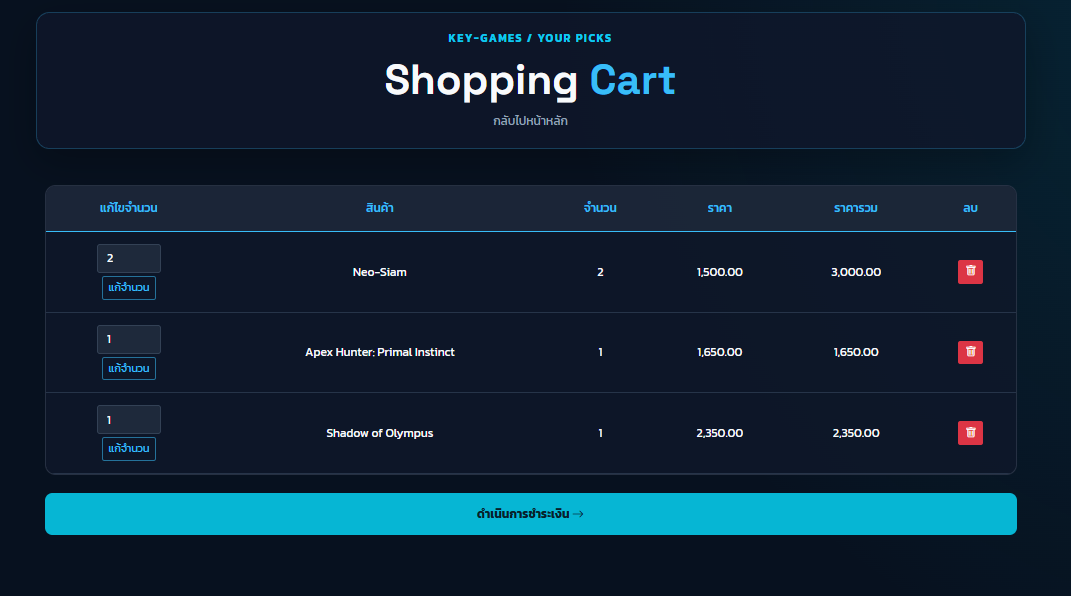
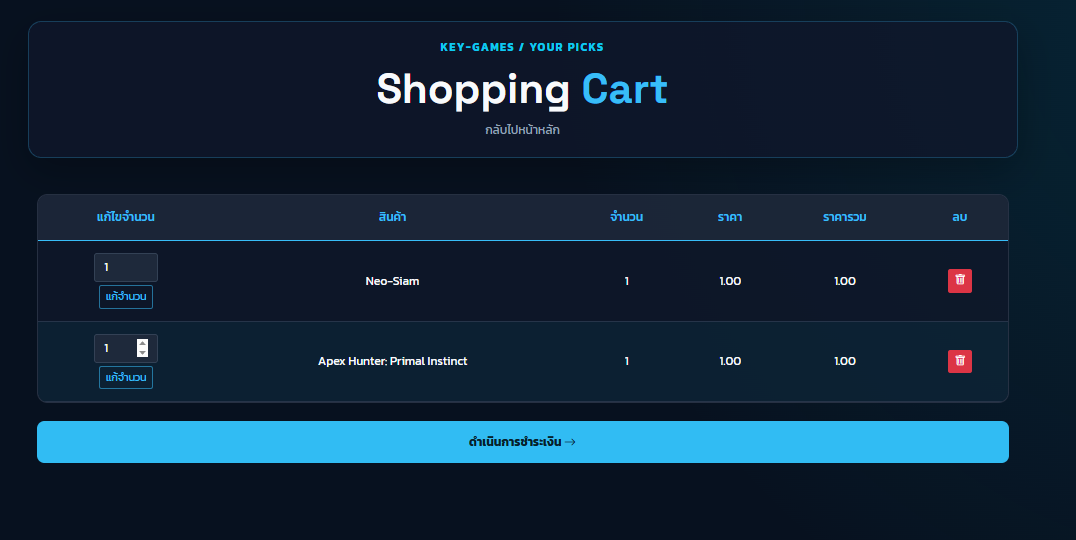
readme

diff --git a/README.md b/README.md
@@ -13,7 +13,7 @@
 
 
 ## 📸 Screenshots
-### Client
+- Client
 <p align="center">
   <img src="screenshot/newLogin.png" width="600">
 </p>
@@ -34,7 +34,7 @@
   <img src="screenshot/newInbox.png" width="600">
 </p>
 
-### Admin
+- Admin
 <p align="center">
   <img src="screenshot/adminDashboard.png" width="600">
 </p>
@@ -42,16 +42,14 @@
 <p align="center">
   <img src="screenshot/adminInsertgames.png" width="600">
 </p>
+
 <p align="center">
   <img src="screenshot/adminKeygames.png" width="600">
 </p>
+
 <p align="center">
   <img src="screenshot/adminOrder.png" width="600">
 </p>
-<!-- ## 🎬 Demo Video
-
-[![Watch the demo](https://img.youtube.com/vi/fBoqTYjbP7I/hqdefault.jpg)](https://youtu.be/fBoqTYjbP7I) -->
-
 
 
 ## Features
